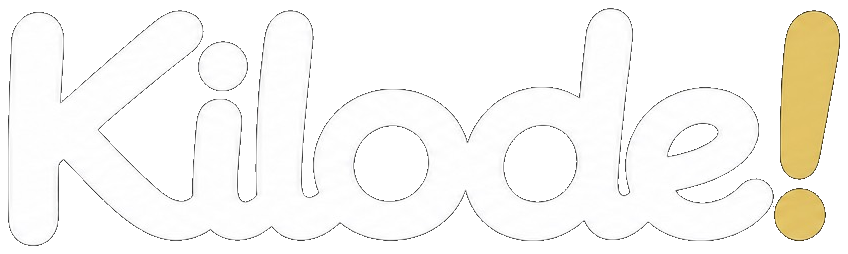
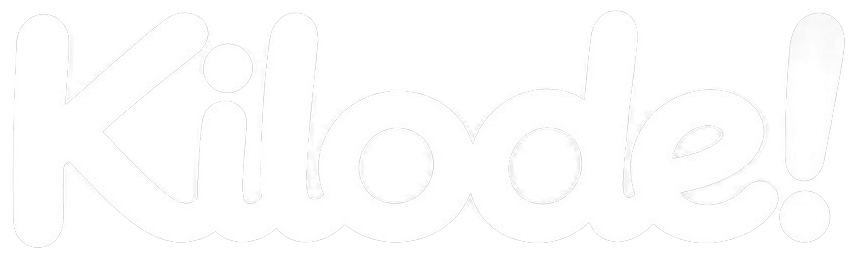
feat: use the white Kilode wordmark and drop the splash
The header, login, and footer use the supplied Kilode mark with the black plate removed. The logo that flashed before the app opened is gone.

diff --git a/src/components/qonvo-app.tsx b/src/components/qonvo-app.tsx
@@ -58,7 +58,6 @@ import { ACCOUNT_KINDS, MENU, POST_CATS, ROOMS, AD_COINS, KIND_FACE, avatarUrl, 
 import { canKind, canCreateMenu, createLabelFor } from "@/lib/permissions";
 import { disconnectFellow, listConnects, listLive, listTakes, replyConnect, type ConnectRow } from "@/lib/takes-server";
 import { listInbox, sendDm } from "@/lib/social-server";
-import { SplashScreen } from "@/components/splash-screen";
 import { unlockSound, pingMessage } from "@/lib/ping";
 import { useRealtimeInbox } from "@/lib/use-realtime";
 import { MUSIC_GENRES, MUSIC_RAILS, VIDEO_CATALOG, VIDEO_SECTIONS } from "@/lib/qonvo-seed";
@@ -216,12 +215,9 @@ function mixChatAds(rows: ChatRow[], ads: Campaign[]): ChatRow[] {
 
 export function QonvoApp({ initialSite }: { initialSite?: PublicSite } = {}) {
   return (
-    <>
-      <SplashScreen />
-      <PublicSiteProvider initial={initialSite}>
-        <QonvoAppInner />
-      </PublicSiteProvider>
-    </>
+    <PublicSiteProvider initial={initialSite}>
+      <QonvoAppInner />
+    </PublicSiteProvider>
   );
 }
 

diff --git a/src/components/splash-screen.tsx b/src/components/splash-screen.tsx
@@ -1,33 +1,3 @@
-import { useEffect, useState } from "react";
-import { BrandLockup } from "@/components/brand-lockup";
-
-const KEY = "kilode-splash-seen";
-
-/** One-shot lockup on a cold load. Skipped on in-app navigation. */
 export function SplashScreen() {
-  const [on, setOn] = useState(false);
-  useEffect(() => {
-    try {
-      if (sessionStorage.getItem(KEY)) return;
-      sessionStorage.setItem(KEY, "1");
-    } catch {
-      return;
-    }
-    setOn(true);
-    const prev = document.body.style.overflow;
-    document.body.style.overflow = "hidden";
-    const timer = window.setTimeout(() => setOn(false), 500);
-    return () => {
-      window.clearTimeout(timer);
-      document.body.style.overflow = prev;
-    };
-  }, []);
-  if (!on) return null;
-  return (
-    <div className="kilode-splash" role="presentation">
-      <div className="kilode-splash-row">
-        <BrandLockup size="lg" />
-      </div>
-    </div>
-  );
+  return null;
 }

diff --git a/src/routes/__root.tsx b/src/routes/__root.tsx
@@ -3,7 +3,6 @@ import { AuthProvider } from "@/lib/auth/provider";
 import { PreviewHostBridge } from "@/components/preview-host-bridge";
 import { seoHead } from "@/lib/seo";
 import appCss from "../styles.css?url";
-import { OfficialLockup } from "@/components/brand-lockup";
 import { OfflineToast } from "@/components/offline-toast";
 
 const base = seoHead({ path: "/" });
@@ -12,7 +11,6 @@ function Boot({ title, body, action }: { title: string; body: string; action?: R
   return (
     <div className="grid min-h-svh place-items-center bg-[#0a0a0a] p-6 text-[#f4f4f5]">
       <div className="max-w-sm text-center">
-        <OfficialLockup className="mx-auto mb-3 h-8 w-[148px]" />
         <p className="mt-1 text-sm font-semibold">{title}</p>
         <p className="mt-2 text-sm text-white/50">{body}</p>
         {action}

diff --git a/src/components/site-chrome.tsx b/src/components/site-chrome.tsx
@@ -268,7 +268,7 @@ export function SiteFooter() {
           <div className="mb-1.5 text-center text-[9px] font-semibold tracking-[0.14em] text-lime-2 uppercase">Email updates</div>
           <DigestBox quiet defaultOpen={false} />
         </div>
-        <img src="/kilode-word.png" alt="Kilode" className="foot-mark mx-auto mt-3 h-7 w-auto" />
+        <img src="/kilode-word.png?v=3" alt="Kilode" className="foot-mark mx-auto mt-3 h-7 w-auto" />
       </div>
 
       <p className="mt-2.5 text-center text-[10px] leading-snug text-muted">

diff --git a/src/components/brand-lockup.tsx b/src/components/brand-lockup.tsx
@@ -2,7 +2,7 @@
 export function KilodeMark({ large = false }: { large?: boolean }) {
   return (
     <span className={`brand-lockup ${large ? "lg" : ""}`} role="img" aria-label="Kilode">
-      <img src="/kilode-word.png" alt="" className="kilode-word" draggable={false} />
+      <img src="/kilode-word.png?v=3" alt="" className="kilode-word" draggable={false} />
     </span>
   );
 }
